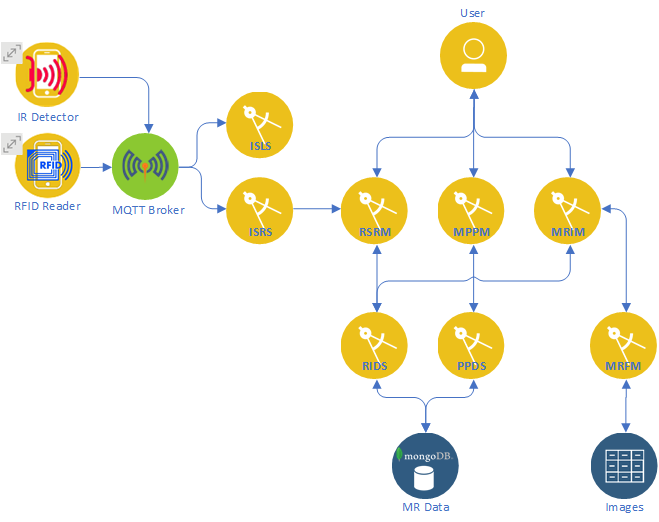
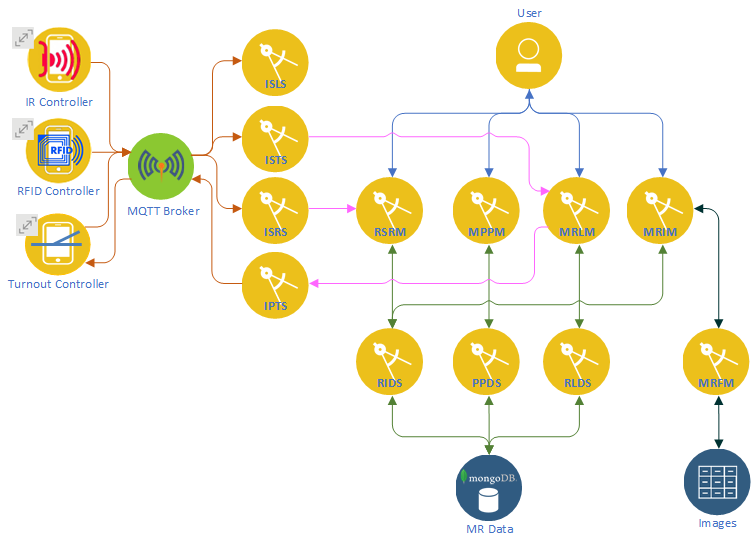
updated system design

Changed region(s): [[0.0, 0.0, 1.0, 0.9808]]

diff --git a/README.md b/README.md
@@ -1,8 +1,8 @@
 # RAILS
-&copy; David Bristow, 2019
+&copy; David Bristow, 2020
 
 # Version
-* 1.3.1 - 8/8/2019
+* 1.4.0 - 5/24/2020
 
 RAILS is a software model and implemenation of an automated system to assist the model railroader achieve realism in the operation of a model railroad. The model then drives the development of software.
 For further information see http://kjcrr.org/rails
@@ -27,18 +27,29 @@ For further information see http://kjcrr.org/rails
 ![System Design](https://github.com/djbristow/RAILS/blob/master/sysdesign.png)
 
 The initial components of the design are:
-* RFID Sensor - a micro-controller programmed to read an RFID reader and publish the value is a Message Queuing Telemetry Transport (MQTT) client - there are two directories on for a simulator (rfidsim) and the other for microcontrollers (microcontroller), which contains two sketches one for a the TI Tiva C and another for an ESP8266.
-* IR Sensor - (in planning) a micro-controller programmed to read an IR sensors and publish their values is a MQTT client
-* MQTT Broker - the MQTT broker, the heart of any publish/subscribe protocol, is responsible for receiving messages, filtering them, posting to designated topics and sending messages to clients subscribing to topics (no source code as this component is a docker image available at https://hub.docker.com/_/eclipse-mosquitto/ )
-* MongoDB - the MongoDB the data storage compenent is a non-sql database (no source code as this is a docker image avaibale at https://hub.docker.com/_/mongo/ )
-* RSRM - the Rolling Stock RFID Manager allows a user to match a RFID value to a rolling stock Road Name and number
-* RIDS - Railroad Inventory Data Services a MongoDB database with collections used by RSRM and MRIM
-* MRIM - Model Railroad Inventory Manager
-* MRFM - Model Railroad File Manager
-* ISRS - IoT Subscriber to RFID Services subscribes to the topic sensors/rfid and sends the Iot message to RSRM
-* ISLS - (in planning) IoT Subscriber to Location Services subscribes to topics that provide location information ie IR Sensors and RFID sensors
-* PPDS - Project and Purchase Data Services a MongoDB database with collections used by MPPM
-* MPPM - Model Project and Purchase Manager allows a user to enter in formation about their projects and purchases
 
-The Kicad-projects directory contains circuit PCB designs for some hardware components.
+* Micro Controllers using the Message Queuing Telemetry Transport (MQTT) protocol:
+RFID Controller – processes RFID tags obtained from a RFID reader and then publishes the value
+Turnout Controller – subscribes to turnout commands then to act on the command to cause the turnout to move. It then publishes the state of the turnout
+IR Controller – (in planning) processes IR sensors and publishes their values
+* MQTT Broker – the MQTT broker, the heart of any publish/subscribe protocol, is responsible for receiving messages, filtering them, posting to designated topics and sending messages to clients subscribing to topics. The subscribers and publishers bridge the MQTT elements with the GUI applications:
+ * ISRS – (formerly ISUB) IoT Subscriber RFID Services subscribes to RFID tags and pushes them via a web-socket to the RSRM component
+ * ISLS – (in planning) IoT Subscriber Location Services subscribes to topics that provide location information i.e. IR Sensors and RFID sensors
+ * ISTS – (in development) IoT Subscriber Turnout Services subscribes to turnout switch closures and pushes them via a web-socket to the MRLM component
+ * IPTS – (in development) IoT Publisher Turnout Services publishes turnout commands to a Turnout Controller
+* GUI applications that provide users access to RAILS
+ * RSRM – the Rolling Stock RFID Manager allows a user to match a RFID value to a rolling stock road name and number
+ * MRIM – the Model Railroad Inventory Manager allows a user to create, update and delete model railroad assets, such as rolling stock
+ * MPPM – the Model Project and Purchase Manager allows a user to enter information about their projects and purchases
+ * MRLM – (in development) the Model Railroad Layout Manager allows a user to enter information about their layout and control elements of it
+* Data Micro Services – components that handle data objects
+ * MR Data – the document repository, mongoDB, to store complete lists of items such as rolling stock, industries (producers and consumers), track elements,turnouts, projects, purchases, etc.
+ * RIDS – Railroad Inventory Data Services provides REST access to railroad inventory documents
+ * PPDS – Project and Purchase Data Services provides REST access to model railroad projects and purchases documents
+ * RLDS – Railroad Layout Data Services provides REST access to model railroad layout documents
+* MRFM – the Model Railroad File Manager allows the user to upload image files for the use by the MRIM component
+* Images – the file store for the images uploaded by MRFM component and used by the MRIM component
+
+
+
 
